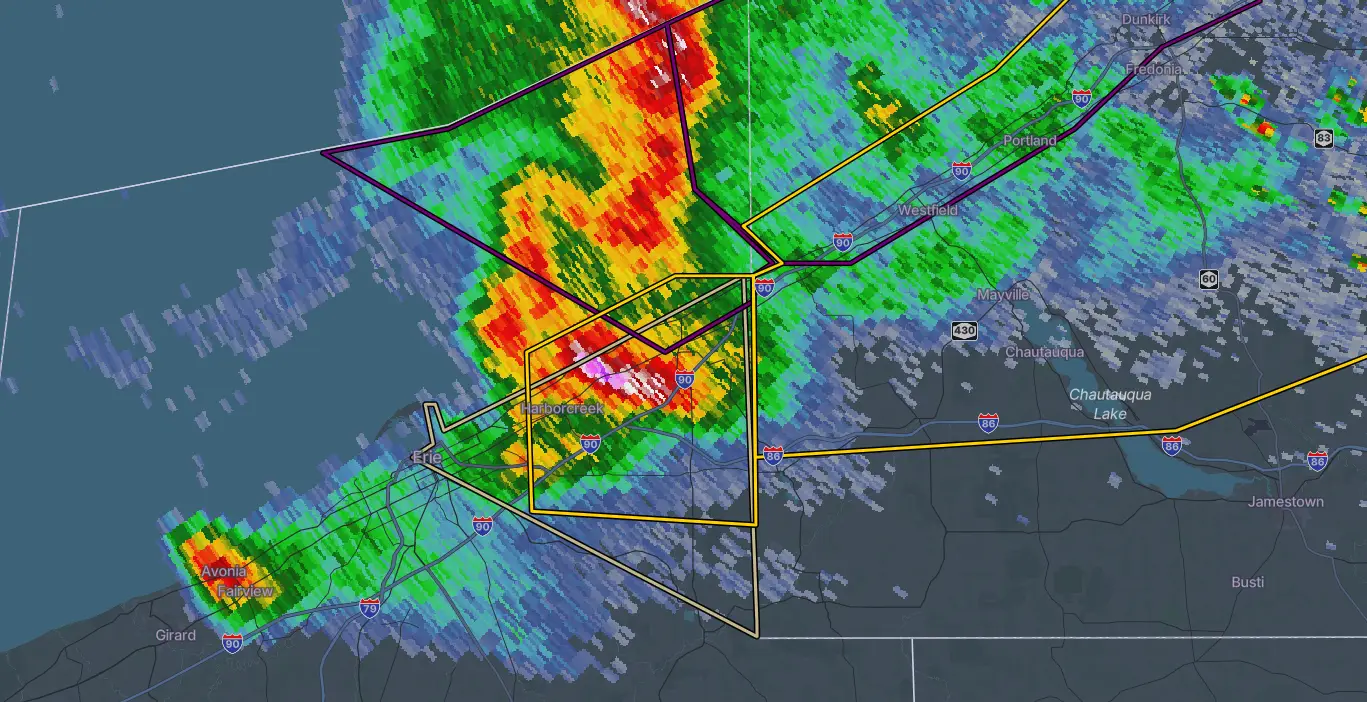
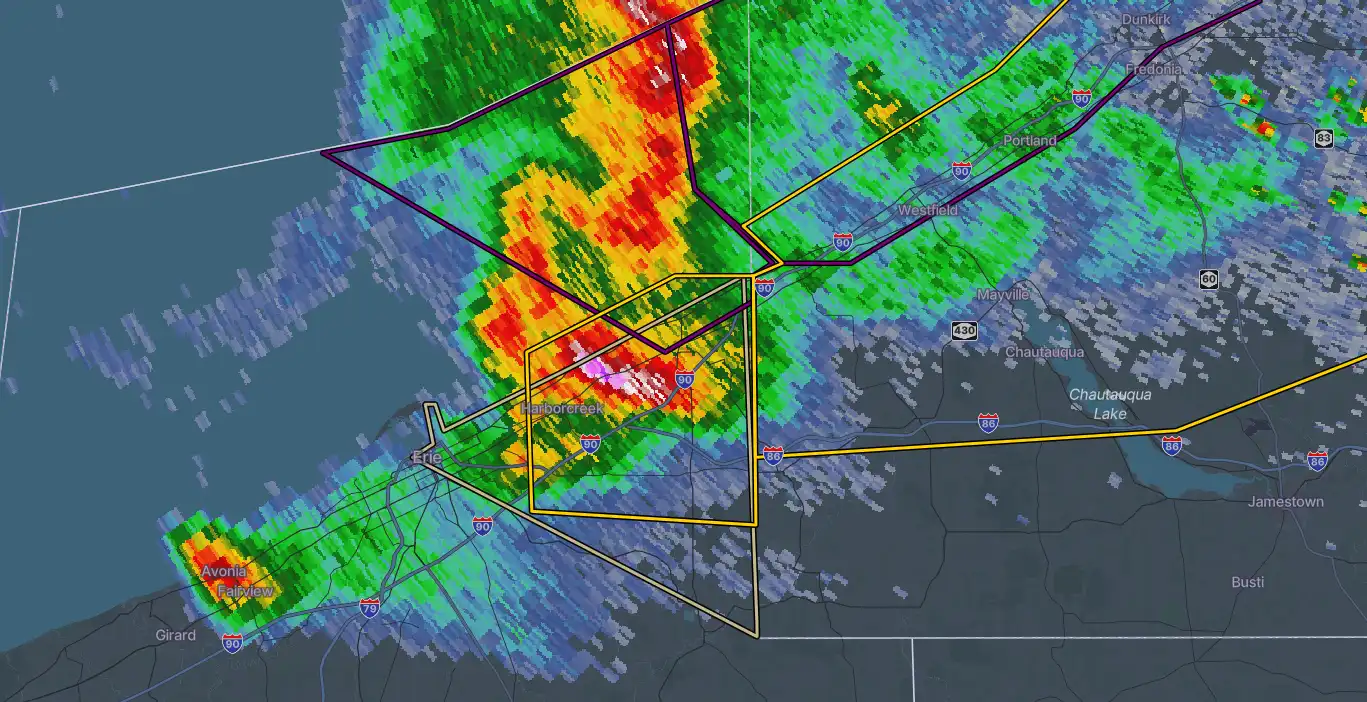
Second PageSpeed pass: unblock render, shrink remaining payloads
- React vendor scripts move from head to just before the app script;
  they were blocking first paint for ~2s on slow 4G
- Font Awesome CSS loads async (preload + swap, noscript fallback),
  removing another ~1s of render blocking on every page
- gg-sans fonts converted ttf -> woff2 (330KB -> 120KB total)
- Hero webp re-encoded from the original at q50 (131 -> 106KB), web
  radar still resized to 900w (74 -> 48KB), snowball avatar to webp
  (35 -> 6KB), banner icon downsized to 96px
- Preconnect to avatars.githubusercontent.com for the chat demo

diff --git a/index.html b/index.html
@@ -10,16 +10,16 @@
 <link rel="icon" type="image/png" href="assets/favicon.png">
 <link rel="apple-touch-icon" href="assets/apple-touch-icon.png">
 <link rel="preconnect" href="https://discord.com" />
+<link rel="preconnect" href="https://avatars.githubusercontent.com" crossorigin />
 <link rel="preload" as="font" href="fonts/DrukWideBold.woff2" type="font/woff2" crossorigin />
 <link rel="preload" as="font" href="fonts/MusticaPro-SemiBold.woff2" type="font/woff2" crossorigin />
 <link rel="preload" as="font" href="https://cdnjs.cloudflare.com/ajax/libs/font-awesome/6.5.2/webfonts/fa-brands-400.woff2" type="font/woff2" crossorigin>
 <link rel="preload" as="font" href="https://cdnjs.cloudflare.com/ajax/libs/font-awesome/6.5.2/webfonts/fa-solid-900.woff2" type="font/woff2" crossorigin>
 <link rel="preload" as="image" href="assets/hero-radar-level2.webp" fetchpriority="high" />
 <link rel="stylesheet" href="styles.css">
-<link rel="stylesheet" href="https://cdnjs.cloudflare.com/ajax/libs/font-awesome/6.5.2/css/all.min.css">
+<link rel="preload" href="https://cdnjs.cloudflare.com/ajax/libs/font-awesome/6.5.2/css/all.min.css" as="style" onload="this.onload=null;this.rel='stylesheet'">
+<noscript><link rel="stylesheet" href="https://cdnjs.cloudflare.com/ajax/libs/font-awesome/6.5.2/css/all.min.css"></noscript>
 <link rel="stylesheet" href="snowball.css">
-<script src="vendor/react.production.min.js"></script>
-<script src="vendor/react-dom.production.min.js"></script>
 <link rel="canonical" href="https://wxtership.github.io/snowball-website/" />
 <meta property="og:site_name" content="Xtreme Weather" />
 <meta property="og:type" content="website" />
@@ -136,6 +136,8 @@
 </div>
 
 <div id="root"></div>
+<script src="vendor/react.production.min.js"></script>
+<script src="vendor/react-dom.production.min.js"></script>
 <script>
 const { useState, useEffect, useRef } = React;
 const h = React.createElement;
@@ -566,7 +568,7 @@ function DcThinking({ leaving }) {
   return h('div', { style:{padding:'4px 16px',animation:anim} },
     h(DcReplyQuote),
     h('div', { style:{display:'flex',gap:16} },
-      h('img', { src:'assets/icons/small-snowball.png', alt:'', style:{width:40,height:40,borderRadius:'50%',flexShrink:0,objectFit:'cover'} }),
+      h('img', { src:'assets/icons/small-snowball.webp', alt:'', style:{width:40,height:40,borderRadius:'50%',flexShrink:0,objectFit:'cover'} }),
       h('div', { style:{flex:1,minWidth:0} },
         h('div', { style:{display:'flex',alignItems:'center',gap:6,marginBottom:2} },
           h('span', { style:{color:'#fff',fontWeight:700,fontSize:15} }, 'Snowball'),
@@ -629,7 +631,7 @@ function DcEmbed() {
           )
         ),
         h('div', { style:{display:'flex',alignItems:'center',gap:6,fontSize:12,color:'#80848e',borderTop:'1px solid rgba(255,255,255,0.05)',paddingTop:10,marginTop:2,fontFamily:DC_GG_SANS} },
-          h('img', { src:'assets/icons/small-snowball.png', alt:'', style:{width:16,height:16,borderRadius:'50%',objectFit:'cover'} }),
+          h('img', { src:'assets/icons/small-snowball.webp', alt:'', style:{width:16,height:16,borderRadius:'50%',objectFit:'cover'} }),
           'Snowball'
         )
       )
@@ -640,7 +642,7 @@ function DcBotResponse() {
   return h('div', { style:{padding:'4px 16px 12px',animation:'dcMsgIn 0.3s ease forwards'} },
       h(DcReplyQuote),
       h('div', { style:{display:'flex',gap:16} },
-        h('img', { src:'assets/icons/small-snowball.png', alt:'', style:{width:40,height:40,borderRadius:'50%',flexShrink:0,objectFit:'cover'} }),
+        h('img', { src:'assets/icons/small-snowball.webp', alt:'', style:{width:40,height:40,borderRadius:'50%',flexShrink:0,objectFit:'cover'} }),
         h('div', { style:{flex:1,minWidth:0} },
           h('div', { style:{display:'flex',alignItems:'center',gap:6,marginBottom:2} },
             h('span', { style:{color:'#fff',fontWeight:700,fontSize:15} }, 'Snowball'),
@@ -929,7 +931,7 @@ function CommandsSection() {
     { cat:'Utility', icon:'assets/icons/small-messages.png',    name:'stats messages',  desc:'Message activity chart' },
     { cat:'Utility', icon:'assets/icons/small-members.png',     name:'stats members',   desc:'Member count chart' },
     { cat:'Utility', icon:'assets/icons/small-members.png',     name:'stats snowball',  desc:'Snowball system stats' },
-    { cat:'Utility', icon:'assets/icons/small-snowball.png',    name:'stats user',      desc:'User activity chart' },
+    { cat:'Utility', icon:'assets/icons/small-snowball.webp',    name:'stats user',      desc:'User activity chart' },
     { cat:'Utility', icon:'assets/icons/small-ping.png',        name:'notifications',   desc:'Manage Snowball DMs & pings' },
     { cat:'Utility', icon:'assets/icons/small-suggestion.png',  name:'suggest',         desc:'Submit suggestion or bug' },
     { cat:'Utility', icon:'assets/icons/small-suggestion.png',  name:'apply',           desc:'Apply to join Xtreme Weather' },

diff --git a/snowball.html b/snowball.html
@@ -10,16 +10,16 @@
 <link rel="icon" type="image/png" href="assets/favicon.png">
 <link rel="apple-touch-icon" href="assets/apple-touch-icon.png">
 <link rel="preconnect" href="https://discord.com" />
+<link rel="preconnect" href="https://avatars.githubusercontent.com" crossorigin />
 <link rel="preload" as="font" href="fonts/DrukWideBold.woff2" type="font/woff2" crossorigin />
 <link rel="preload" as="font" href="fonts/MusticaPro-SemiBold.woff2" type="font/woff2" crossorigin />
 <link rel="preload" as="font" href="https://cdnjs.cloudflare.com/ajax/libs/font-awesome/6.5.2/webfonts/fa-brands-400.woff2" type="font/woff2" crossorigin>
 <link rel="preload" as="font" href="https://cdnjs.cloudflare.com/ajax/libs/font-awesome/6.5.2/webfonts/fa-solid-900.woff2" type="font/woff2" crossorigin>
 <link rel="preload" as="image" href="assets/snowball-logo-transparent-small.png" fetchpriority="high" />
 <link rel="stylesheet" href="styles.css">
-<link rel="stylesheet" href="https://cdnjs.cloudflare.com/ajax/libs/font-awesome/6.5.2/css/all.min.css">
+<link rel="preload" href="https://cdnjs.cloudflare.com/ajax/libs/font-awesome/6.5.2/css/all.min.css" as="style" onload="this.onload=null;this.rel='stylesheet'">
+<noscript><link rel="stylesheet" href="https://cdnjs.cloudflare.com/ajax/libs/font-awesome/6.5.2/css/all.min.css"></noscript>
 <link rel="stylesheet" href="snowball.css">
-<script src="vendor/react.production.min.js"></script>
-<script src="vendor/react-dom.production.min.js"></script>
 <link rel="canonical" href="https://wxtership.github.io/snowball-website/snowball" />
 <meta property="og:site_name" content="Xtreme Weather" />
 <meta property="og:type" content="website" />
@@ -135,6 +135,8 @@
 </div>
 
 <div id="root"></div>
+<script src="vendor/react.production.min.js"></script>
+<script src="vendor/react-dom.production.min.js"></script>
 <script>
 const { useState, useEffect, useRef } = React;
 const h = React.createElement;
@@ -521,7 +523,7 @@ function DcThinking({ leaving }) {
   return h('div', { style:{padding:'4px 16px',animation:anim} },
     h(DcReplyQuote),
     h('div', { style:{display:'flex',gap:16} },
-      h('img', { src:'assets/icons/small-snowball.png', alt:'', style:{width:40,height:40,borderRadius:'50%',flexShrink:0,objectFit:'cover'} }),
+      h('img', { src:'assets/icons/small-snowball.webp', alt:'', style:{width:40,height:40,borderRadius:'50%',flexShrink:0,objectFit:'cover'} }),
       h('div', { style:{flex:1,minWidth:0} },
         h('div', { style:{display:'flex',alignItems:'center',gap:6,marginBottom:2} },
           h('span', { style:{color:'#fff',fontWeight:700,fontSize:15} }, 'Snowball'),
@@ -584,7 +586,7 @@ function DcEmbed() {
           )
         ),
         h('div', { style:{display:'flex',alignItems:'center',gap:6,fontSize:12,color:'#80848e',borderTop:'1px solid rgba(255,255,255,0.05)',paddingTop:10,marginTop:2,fontFamily:DC_GG_SANS} },
-          h('img', { src:'assets/icons/small-snowball.png', alt:'', style:{width:16,height:16,borderRadius:'50%',objectFit:'cover'} }),
+          h('img', { src:'assets/icons/small-snowball.webp', alt:'', style:{width:16,height:16,borderRadius:'50%',objectFit:'cover'} }),
           'Snowball'
         )
       )
@@ -595,7 +597,7 @@ function DcBotResponse() {
   return h('div', { style:{padding:'4px 16px 12px',animation:'dcMsgIn 0.3s ease forwards'} },
       h(DcReplyQuote),
       h('div', { style:{display:'flex',gap:16} },
-        h('img', { src:'assets/icons/small-snowball.png', alt:'', style:{width:40,height:40,borderRadius:'50%',flexShrink:0,objectFit:'cover'} }),
+        h('img', { src:'assets/icons/small-snowball.webp', alt:'', style:{width:40,height:40,borderRadius:'50%',flexShrink:0,objectFit:'cover'} }),
         h('div', { style:{flex:1,minWidth:0} },
           h('div', { style:{display:'flex',alignItems:'center',gap:6,marginBottom:2} },
             h('span', { style:{color:'#fff',fontWeight:700,fontSize:15} }, 'Snowball'),
@@ -870,7 +872,7 @@ function CommandsSection() {
     { cat:'Utility', icon:'assets/icons/small-messages.png',    name:'stats messages',  desc:'Message activity chart' },
     { cat:'Utility', icon:'assets/icons/small-members.png',     name:'stats members',   desc:'Member count chart' },
     { cat:'Utility', icon:'assets/icons/small-members.png',     name:'stats snowball',  desc:'Snowball system stats' },
-    { cat:'Utility', icon:'assets/icons/small-snowball.png',    name:'stats user',      desc:'User activity chart' },
+    { cat:'Utility', icon:'assets/icons/small-snowball.webp',    name:'stats user',      desc:'User activity chart' },
     { cat:'Utility', icon:'assets/icons/small-ping.png',        name:'notifications',   desc:'Manage Snowball DMs & pings' },
     { cat:'Utility', icon:'assets/icons/small-suggestion.png',  name:'suggest',         desc:'Submit suggestion or bug' },
     { cat:'Utility', icon:'assets/icons/small-suggestion.png',  name:'apply',           desc:'Apply to join Xtreme Weather' },

diff --git a/snowball.css b/snowball.css
@@ -12,25 +12,25 @@
 }
 @font-face {
   font-family: 'gg sans';
-  src: url('./fonts/gg-sans-regular.ttf') format('truetype');
+  src: url('./fonts/gg-sans-regular.woff2') format('woff2');
   font-weight: 400;
   font-display: swap;
 }
 @font-face {
   font-family: 'gg sans';
-  src: url('./fonts/gg-sans-medium.ttf') format('truetype');
+  src: url('./fonts/gg-sans-medium.woff2') format('woff2');
   font-weight: 500;
   font-display: swap;
 }
 @font-face {
   font-family: 'gg sans';
-  src: url('./fonts/gg-sans-semibold.ttf') format('truetype');
+  src: url('./fonts/gg-sans-semibold.woff2') format('woff2');
   font-weight: 600;
   font-display: swap;
 }
 @font-face {
   font-family: 'gg sans';
-  src: url('./fonts/gg-sans-bold.ttf') format('truetype');
+  src: url('./fonts/gg-sans-bold.woff2') format('woff2');
   font-weight: 700;
   font-display: swap;
 }

diff --git a/about.html b/about.html
@@ -16,7 +16,8 @@
 <link rel="preload" as="font" href="https://cdnjs.cloudflare.com/ajax/libs/font-awesome/6.5.2/webfonts/fa-brands-400.woff2" type="font/woff2" crossorigin>
 <link rel="preload" as="font" href="https://cdnjs.cloudflare.com/ajax/libs/font-awesome/6.5.2/webfonts/fa-solid-900.woff2" type="font/woff2" crossorigin>
 <link rel="stylesheet" href="styles.css">
-<link rel="stylesheet" href="https://cdnjs.cloudflare.com/ajax/libs/font-awesome/6.5.2/css/all.min.css">
+<link rel="preload" href="https://cdnjs.cloudflare.com/ajax/libs/font-awesome/6.5.2/css/all.min.css" as="style" onload="this.onload=null;this.rel='stylesheet'">
+<noscript><link rel="stylesheet" href="https://cdnjs.cloudflare.com/ajax/libs/font-awesome/6.5.2/css/all.min.css"></noscript>
 <link rel="stylesheet" href="snowball.css">
 <link rel="stylesheet" href="community.css">
 <link rel="canonical" href="https://wxtership.github.io/snowball-website/about" />

diff --git a/ban-appeal.html b/ban-appeal.html
@@ -15,7 +15,8 @@
 <link rel="preload" as="font" href="https://cdnjs.cloudflare.com/ajax/libs/font-awesome/6.5.2/webfonts/fa-brands-400.woff2" type="font/woff2" crossorigin>
 <link rel="preload" as="font" href="https://cdnjs.cloudflare.com/ajax/libs/font-awesome/6.5.2/webfonts/fa-solid-900.woff2" type="font/woff2" crossorigin>
 <link rel="stylesheet" href="styles.css">
-<link rel="stylesheet" href="https://cdnjs.cloudflare.com/ajax/libs/font-awesome/6.5.2/css/all.min.css">
+<link rel="preload" href="https://cdnjs.cloudflare.com/ajax/libs/font-awesome/6.5.2/css/all.min.css" as="style" onload="this.onload=null;this.rel='stylesheet'">
+<noscript><link rel="stylesheet" href="https://cdnjs.cloudflare.com/ajax/libs/font-awesome/6.5.2/css/all.min.css"></noscript>
 <link rel="stylesheet" href="snowball.css">
 <link rel="stylesheet" href="community.css">
 <link rel="canonical" href="https://wxtership.github.io/snowball-website/ban-appeal" />

diff --git a/charter.html b/charter.html
@@ -15,7 +15,8 @@
 <link rel="preload" as="font" href="fonts/MusticaPro-SemiBold.woff2" type="font/woff2" crossorigin />
 <link rel="preload" as="font" href="https://cdnjs.cloudflare.com/ajax/libs/font-awesome/6.5.2/webfonts/fa-solid-900.woff2" type="font/woff2" crossorigin>
 <link rel="stylesheet" href="styles.css">
-<link rel="stylesheet" href="https://cdnjs.cloudflare.com/ajax/libs/font-awesome/6.5.2/css/all.min.css">
+<link rel="preload" href="https://cdnjs.cloudflare.com/ajax/libs/font-awesome/6.5.2/css/all.min.css" as="style" onload="this.onload=null;this.rel='stylesheet'">
+<noscript><link rel="stylesheet" href="https://cdnjs.cloudflare.com/ajax/libs/font-awesome/6.5.2/css/all.min.css"></noscript>
 <link rel="stylesheet" href="snowball.css">
 <link rel="stylesheet" href="community.css">
 <link rel="canonical" href="https://wxtership.github.io/snowball-website/charter" />

diff --git a/contact.html b/contact.html
@@ -15,7 +15,8 @@
 <link rel="preload" as="font" href="https://cdnjs.cloudflare.com/ajax/libs/font-awesome/6.5.2/webfonts/fa-brands-400.woff2" type="font/woff2" crossorigin>
 <link rel="preload" as="font" href="https://cdnjs.cloudflare.com/ajax/libs/font-awesome/6.5.2/webfonts/fa-solid-900.woff2" type="font/woff2" crossorigin>
 <link rel="stylesheet" href="styles.css">
-<link rel="stylesheet" href="https://cdnjs.cloudflare.com/ajax/libs/font-awesome/6.5.2/css/all.min.css">
+<link rel="preload" href="https://cdnjs.cloudflare.com/ajax/libs/font-awesome/6.5.2/css/all.min.css" as="style" onload="this.onload=null;this.rel='stylesheet'">
+<noscript><link rel="stylesheet" href="https://cdnjs.cloudflare.com/ajax/libs/font-awesome/6.5.2/css/all.min.css"></noscript>
 <link rel="stylesheet" href="snowball.css">
 <link rel="stylesheet" href="community.css">
 <link rel="canonical" href="https://wxtership.github.io/snowball-website/contact" />

diff --git a/coverage-experts.html b/coverage-experts.html
@@ -15,7 +15,8 @@
 <link rel="preload" as="font" href="fonts/MusticaPro-SemiBold.woff2" type="font/woff2" crossorigin />
 <link rel="preload" as="font" href="https://cdnjs.cloudflare.com/ajax/libs/font-awesome/6.5.2/webfonts/fa-solid-900.woff2" type="font/woff2" crossorigin>
 <link rel="stylesheet" href="styles.css">
-<link rel="stylesheet" href="https://cdnjs.cloudflare.com/ajax/libs/font-awesome/6.5.2/css/all.min.css">
+<link rel="preload" href="https://cdnjs.cloudflare.com/ajax/libs/font-awesome/6.5.2/css/all.min.css" as="style" onload="this.onload=null;this.rel='stylesheet'">
+<noscript><link rel="stylesheet" href="https://cdnjs.cloudflare.com/ajax/libs/font-awesome/6.5.2/css/all.min.css"></noscript>
 <link rel="stylesheet" href="snowball.css">
 <link rel="stylesheet" href="community.css">
 <link rel="canonical" href="https://wxtership.github.io/snowball-website/coverage-experts" />

diff --git a/donators.html b/donators.html
@@ -16,7 +16,8 @@
 <link rel="preload" as="font" href="https://cdnjs.cloudflare.com/ajax/libs/font-awesome/6.5.2/webfonts/fa-brands-400.woff2" type="font/woff2" crossorigin>
 <link rel="preload" as="font" href="https://cdnjs.cloudflare.com/ajax/libs/font-awesome/6.5.2/webfonts/fa-solid-900.woff2" type="font/woff2" crossorigin>
 <link rel="stylesheet" href="styles.css">
-<link rel="stylesheet" href="https://cdnjs.cloudflare.com/ajax/libs/font-awesome/6.5.2/css/all.min.css">
+<link rel="preload" href="https://cdnjs.cloudflare.com/ajax/libs/font-awesome/6.5.2/css/all.min.css" as="style" onload="this.onload=null;this.rel='stylesheet'">
+<noscript><link rel="stylesheet" href="https://cdnjs.cloudflare.com/ajax/libs/font-awesome/6.5.2/css/all.min.css"></noscript>
 <link rel="stylesheet" href="snowball.css">
 <link rel="stylesheet" href="community.css">
 <link rel="canonical" href="https://wxtership.github.io/snowball-website/donators" />

diff --git a/privacy.html b/privacy.html
@@ -15,7 +15,8 @@
 <link rel="preload" as="font" href="fonts/MusticaPro-SemiBold.woff2" type="font/woff2" crossorigin />
 <link rel="preload" as="font" href="https://cdnjs.cloudflare.com/ajax/libs/font-awesome/6.5.2/webfonts/fa-solid-900.woff2" type="font/woff2" crossorigin>
 <link rel="stylesheet" href="styles.css">
-<link rel="stylesheet" href="https://cdnjs.cloudflare.com/ajax/libs/font-awesome/6.5.2/css/all.min.css">
+<link rel="preload" href="https://cdnjs.cloudflare.com/ajax/libs/font-awesome/6.5.2/css/all.min.css" as="style" onload="this.onload=null;this.rel='stylesheet'">
+<noscript><link rel="stylesheet" href="https://cdnjs.cloudflare.com/ajax/libs/font-awesome/6.5.2/css/all.min.css"></noscript>
 <link rel="stylesheet" href="snowball.css">
 <link rel="stylesheet" href="community.css">
 <link rel="canonical" href="https://wxtership.github.io/snowball-website/privacy" />

diff --git a/seb.html b/seb.html
@@ -13,7 +13,8 @@
 <link rel="preload" as="font" href="fonts/DrukWideBold.woff2" type="font/woff2" crossorigin />
 <link rel="preload" as="font" href="fonts/MusticaPro-SemiBold.woff2" type="font/woff2" crossorigin />
 <link rel="stylesheet" href="styles.css">
-<link rel="stylesheet" href="https://cdnjs.cloudflare.com/ajax/libs/font-awesome/6.5.2/css/all.min.css">
+<link rel="preload" href="https://cdnjs.cloudflare.com/ajax/libs/font-awesome/6.5.2/css/all.min.css" as="style" onload="this.onload=null;this.rel='stylesheet'">
+<noscript><link rel="stylesheet" href="https://cdnjs.cloudflare.com/ajax/libs/font-awesome/6.5.2/css/all.min.css"></noscript>
 <link rel="stylesheet" href="snowball.css">
 <link rel="stylesheet" href="community.css">
 <link rel="preconnect" href="https://fonts.googleapis.com">

diff --git a/staff.html b/staff.html
@@ -16,7 +16,8 @@
 <link rel="preload" as="font" href="https://cdnjs.cloudflare.com/ajax/libs/font-awesome/6.5.2/webfonts/fa-brands-400.woff2" type="font/woff2" crossorigin>
 <link rel="preload" as="font" href="https://cdnjs.cloudflare.com/ajax/libs/font-awesome/6.5.2/webfonts/fa-solid-900.woff2" type="font/woff2" crossorigin>
 <link rel="stylesheet" href="styles.css">
-<link rel="stylesheet" href="https://cdnjs.cloudflare.com/ajax/libs/font-awesome/6.5.2/css/all.min.css">
+<link rel="preload" href="https://cdnjs.cloudflare.com/ajax/libs/font-awesome/6.5.2/css/all.min.css" as="style" onload="this.onload=null;this.rel='stylesheet'">
+<noscript><link rel="stylesheet" href="https://cdnjs.cloudflare.com/ajax/libs/font-awesome/6.5.2/css/all.min.css"></noscript>
 <link rel="stylesheet" href="snowball.css">
 <link rel="stylesheet" href="community.css">
 <link rel="canonical" href="https://wxtership.github.io/snowball-website/staff" />